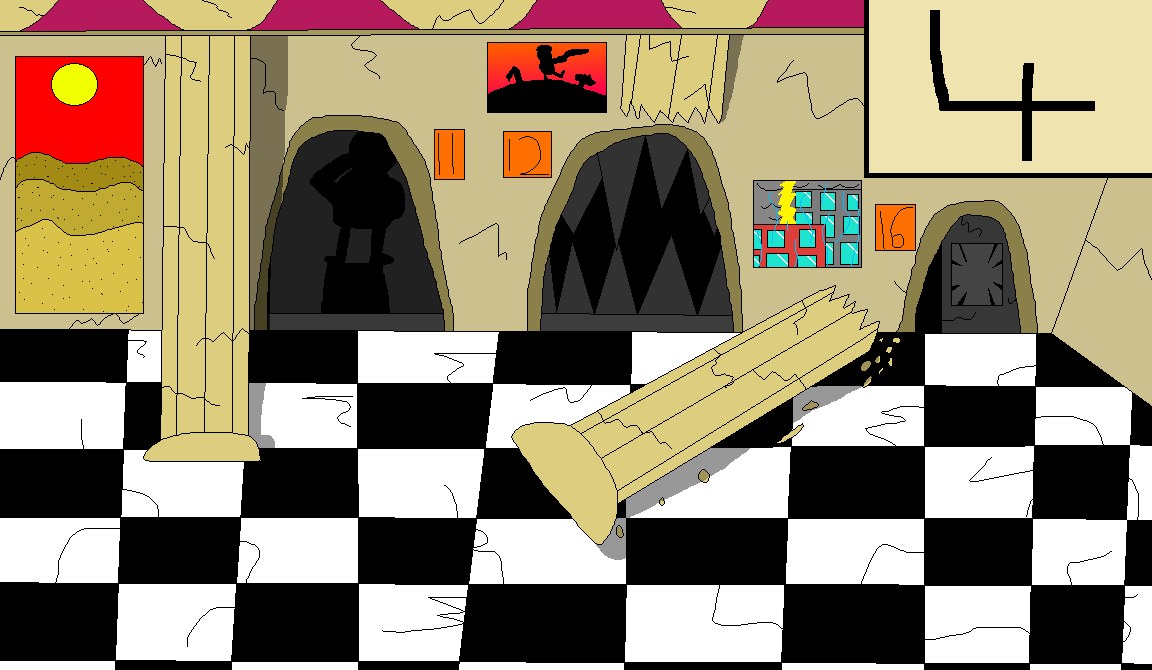
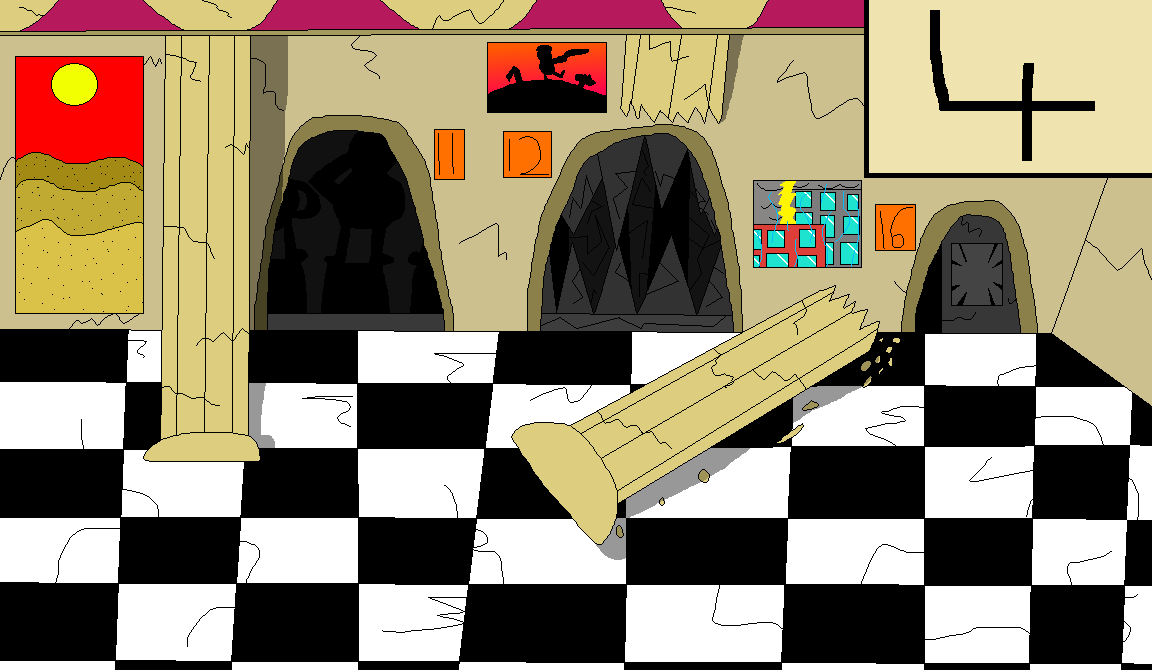
Add files via upload

Changed region(s): [[0.2188, 0.2687, 0.2812, 0.4776], [0.3438, 0.3582, 0.4062, 0.4776]]

diff --git a/Room 13.html b/Room 13.html
@@ -22,7 +22,7 @@ Your browser does not support the audio element.
 <br>
 <p>The Demon that calls this room it's home, emaciated, tall, it's movements jaggered and sudden, it's skin an unnatural pink, it looked at us with a thousand yard stare, it's mouth contorting to a wicked smile upon seeing it's meal has found it's way to it, another meal to satisfy it's never ending hunger.</p>
 <br>
-<p>Unable to die, unable to be injured, the only way it's immortality can come to an end is by sunlight.</p>
+<p>I am it's creation, it is the manifestation of the guilt of my actions when I was much younger, Unable to die, unable to be injured, the only way it's immortality can come to an end is by sunlight.</p>
 <br>
 <p>Frozen in horror, their eyes were then drawn to the mutilated, bloody, unrecognizable corpses of it's previous victims, their remains scattered all around the room, the blood staining the walls, they realized exactly what their fate was going to be.</p>
 <br>

diff --git a/Room 5.html b/Room 5.html
@@ -8,8 +8,8 @@
 <body>
 <center><img src="ROOM 5.png" usemap="#rooms">
 <map name="rooms">
-  <area shape="rect" coords="39,379,220,642" href="Room 9.html">
-  <area shape="rect" coords="328,381,435,642" href="Room 17.html">
+  <area shape="rect" coords="39,379,220,642" href="Room 6.html">
+  <area shape="rect" coords="328,381,435,642" href="Room 10.html">
   <area shape="rect" coords="524,392,681,642" href="Room 12.html">
   <area shape="rect" coords="762,394,896,642" href="Room 7.html">
   <area shape="rect" coords="934,435,1113,642" href="Room 4.html">

diff --git a/Room 3.html b/Room 3.html
@@ -10,7 +10,7 @@
 <map name="rooms">
   <area shape="rect" coords="149,303,359,648" href="Room 2.html">
   <area shape="rect" coords="445,304,717,648" href="Room 6.html">
-  <area shape="rect" coords="774,300,953,648" href="Room 19.html">
+  <area shape="rect" coords="774,300,953,648" href="Room 1.html">
 </map>
 <br>
 <a href="ROOM 3.png" class-"zoom-icon">🔍</a>
